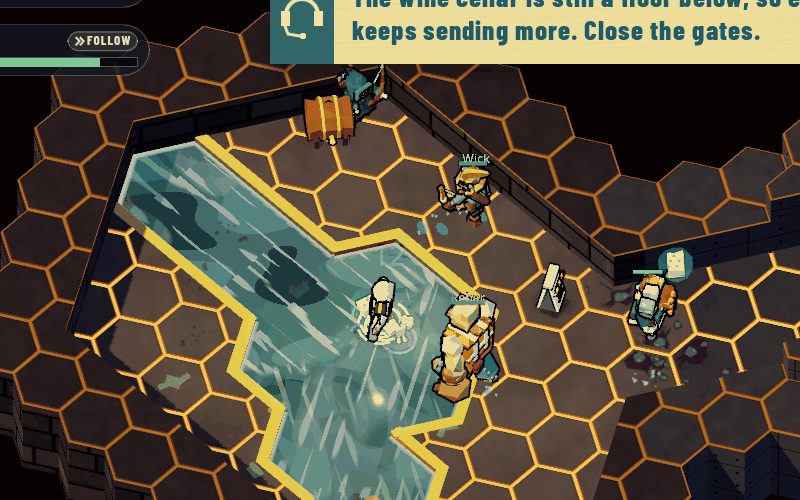
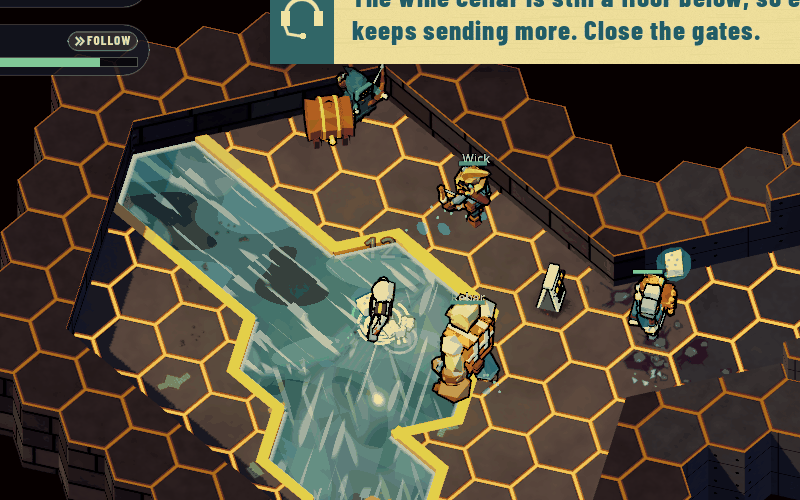
Sewer kerb: wind every face front side out (no fight at the rim's corners)
SewerView._quad flipped a face's normal when it came out pointing down but
never its winding, so about half the double-sided kerb's faces were back faces,
lit from below (dark). Where a lit and a dark face lie flush (the strips and the
corner fan at a rim corner) they fought; on the brick look every kerb front was
dark. _quad now winds each quad to face its normal (up for tops and fans,
toward the water for the fronts). test_sewer_gen checks the winding.

diff --git a/docs/design/sewer-concept.md b/docs/design/sewer-concept.md
@@ -1107,10 +1107,10 @@ Solo runs only when built: a shared run got no cluster until phase 2 ("Phase 2 a
 | Panel and pumps | `HazardPlanner.plan_sewer` | The **electrical panel** on a wall within 4 cells of the water whose cable lands within 3.5 (`LiveWire.drop_point_for`); up to two **sump pumps** on the walls by the water of the room farthest from the stair; an **oil drum** on a dry deck in 60 %. Priced props in `SitePlan.props`, the drum in `hazards`, after the floor's own; own dice; the clearances of the floor's explosives |
 | The goo imps | `SewerPlanner.plan_pack` / `spawn` (`MonsterFactory.spawn_sewer_pack`, the goo imp's `"sewer_pack"` row) | One sewer pack (3-4 goo imps) a cluster, planned after the gators (so it keeps out of their territory, `SitePlan.blocked`) on the cluster's own dice: a room of the cluster other than the stair's when another has room, on its dry full cells within 2 of the water (a deck or a ledge over a channel) and more than 4 from the stair's foot. Spawned after the gators (the floor's last actors); they count toward the floor's pest objective like any pack. Spawn data in `HexMap.sewer["pack"]` |
 | The gators | `scripts/contracts/planners/gator_planner.gd` (`GatorPlanner`) | Planned last (own dice), spawned **after the sharks** (the last actors, so no earlier net id moves). One a cluster, two in a cluster of four rooms, in a room's sump (farthest from the stair first, 5+ from staff, 6+ from a gate; else mid-hall), a second 8+ from the first. Home region: the body's cells and the cluster's cells within 2 (never the stair). Bask spots: the sumps, the middle of each flooded hall, a dry deck cell by the water in each room. No pack monster within 4 of where one starts (`SitePlan.blocked`). Spawn data in `HexMap.sewer["gators"]` |
-| The look | `SewerView.dress_body` (`SewerPlanner.spawn`), `HexMapView` `Surf.CHANNEL` | A sewer body's pool kites are drawn on their own CHANNEL surface (material name `HexMapView.CHANNEL_MATERIAL`), so the view restyles only the sewer's bed and liners; the water, foam and kerbs of that body only, at its own surface. The floor's other materials, pools and lights are untouched (the slice's `dress` still restyles a whole sewer floor). The water's pattern is drawn in frames along 12 fixed directions, the two either side of the local flow cross-faded, and the water's edges are found with corner keys on the hex lattice (see "The water's moire" below) |
+| The look | `SewerView.dress_body` (`SewerPlanner.spawn`), `HexMapView` `Surf.CHANNEL` | A sewer body's pool kites are drawn on their own CHANNEL surface (material name `HexMapView.CHANNEL_MATERIAL`), so the view restyles only the sewer's bed and liners; the water, foam and kerbs of that body only, at its own surface. The floor's other materials, pools and lights are untouched (the slice's `dress` still restyles a whole sewer floor). The water's pattern is drawn in frames along 12 fixed directions, the two either side of the local flow cross-faded, the water's edges are found with corner keys on the hex lattice, and the kerb's faces are wound front side out (see "The water's moire" below) |
 | Live wires | `SewerPlanner.spawn` | A `LiveWire` on every electrical panel (distance-based shock, N = 5, as built in phase 1) |
 | Timing | `SiteBuilder.last_sewer_usec`, `SewerPlanner.last_usec` | Outside `last_plan_usec`. Measured: about 10 ms of planning on the biggest cluster; generation of a sewer floor up to about 240 ms (a failed cluster attempt is built again without it) |
-| Tests | `tests/test_sewer_gen.gd` | Contract seeds 1-40, floors 2-3 (and floor 1 of 1-8): 2-4 rooms at one level, never the start or exit room, floors 2-3 of a bunker or lair; the stair has steps, goes down 3+ levels, its doorway dry; one body; every flooded hall's water joins both rooms'; every wide hall keeps a dry ledge; each room's water under the cap (in kites) and present; every doorway and room reachable from the start; nothing planned in the water; the panel's cable lands in water; one or two gators in their water, their spots in the region, the stair not theirs; no office door in the water, a sluice per flooded narrow doorway; the gators spawned after the sharks with a live wire per panel and the water drawn; a shared run gets none and builds exactly the floor without the option; a floor without a cluster has the same map and plan texts as `DungeonGen.generate` without the option; `--sewer-floor` forces one on most floors and still none when shared; the goo pack on dry deck by the water, spawned after the gators; the water as drawn: no foam strip with more of the body's water beyond it, no kerb top under the water (every cluster, and the playtest's floor: board 7, offer 2, floor 2). Measured over the 80 floors 2-3: **27 have a cluster (34 %)**, all with a panel and a goo imp pack; sizes 2 rooms 14, 3 rooms 7, 4 rooms 6; 4 flooded narrow halls and 1 loop inside a cluster. `test_pools` skips the sewer's body record and its water decor (grates, bars, outfall, sluices: in the water on purpose); `test_hellgate_beast` builds its fixture floor without the option (its gate rooms changed with the cluster) |
+| Tests | `tests/test_sewer_gen.gd` | Contract seeds 1-40, floors 2-3 (and floor 1 of 1-8): 2-4 rooms at one level, never the start or exit room, floors 2-3 of a bunker or lair; the stair has steps, goes down 3+ levels, its doorway dry; one body; every flooded hall's water joins both rooms'; every wide hall keeps a dry ledge; each room's water under the cap (in kites) and present; every doorway and room reachable from the start; nothing planned in the water; the panel's cable lands in water; one or two gators in their water, their spots in the region, the stair not theirs; no office door in the water, a sluice per flooded narrow doorway; the gators spawned after the sharks with a live wire per panel and the water drawn; a shared run gets none and builds exactly the floor without the option; a floor without a cluster has the same map and plan texts as `DungeonGen.generate` without the option; `--sewer-floor` forces one on most floors and still none when shared; the goo pack on dry deck by the water, spawned after the gators; the water as drawn: no foam strip with more of the body's water beyond it, no kerb top under the water, every kerb face wound to face its normal (every cluster, and the playtest's floor: board 7, offer 2, floor 2). Measured over the 80 floors 2-3: **27 have a cluster (34 %)**, all with a panel and a goo imp pack; sizes 2 rooms 14, 3 rooms 7, 4 rooms 6; 4 flooded narrow halls and 1 loop inside a cluster. `test_pools` skips the sewer's body record and its water decor (grates, bars, outfall, sluices: in the water on purpose); `test_hellgate_beast` builds its fixture floor without the option (its gate rooms changed with the cluster) |
 
 **Why RATE 0.5:** about a third of the rolls find no wing that fits (no 2-4 room wing under a room high enough for the
 stair), so a roll of 0.5 gives about one floor 2-3 in three with a cluster, the proposal's "about one floor in three". A cluster on every other
@@ -1135,6 +1135,16 @@ an edge of the water on both sides and drew foam and a kerb along it at the chan
 the clusters in `test_sewer_gen`). The keys are now the corner's multiples of INNER / 2 and SIZE / 4. `test_sewer_gen` checks the
 drawn water (above); the shader's frame has no headless test (no renderer). Before and after at the game camera (board 7,
 offer 2, floor 2, `--to-sewer foot`): `sewer_fixes/water_moire_before.png`, `sewer_fixes/water_moire_after.png`.
+
+**The water's edge** ("We also have z fighting on the water edge here", the same floor): the kerb along the rim fought at
+its corners, a striped wedge where two strips and the corner fan overlap flush. The kerb is double-sided, and `SewerView._quad`
+flipped only the normal of a face that came out pointing down, never its winding, so about half the kerb's faces were back
+faces; Godot lights a double-sided back face with its normal flipped, from below, dark, and where a lit and a dark face lie
+flush they fought (on the brick look every front face of the kerb was dark). Now `_quad` winds each quad to face its normal
+(up for the tops and corner fans, toward the water for the front faces); `test_sewer_gen` checks every kerb face's winding.
+Close-ups of a rim corner, concrete (board 7, offer 2, floor 2) and brick (seed 6, floor 2), before and after:
+`sewer_fixes/water_rim_before.png`, `sewer_fixes/water_rim_after.png`. Left as is: the small notch at a corner's water-side tip
+(the two front faces stop 4 cm into the water, so the liner shows between them) is a seam, not a fight.
 
 ### Known limits
 
